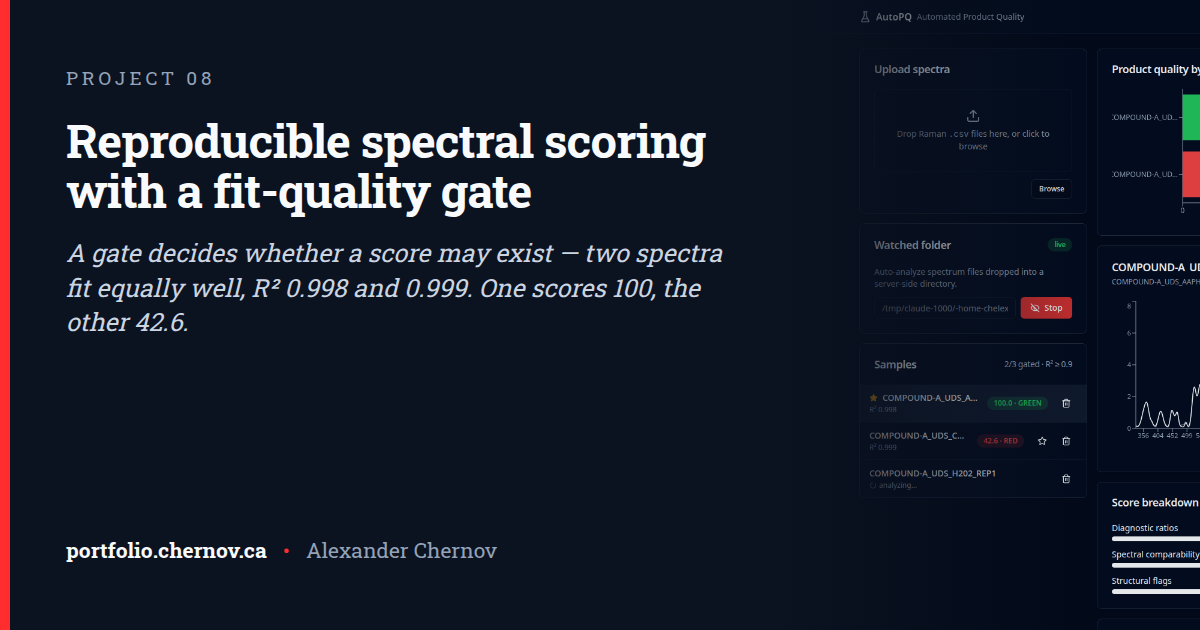
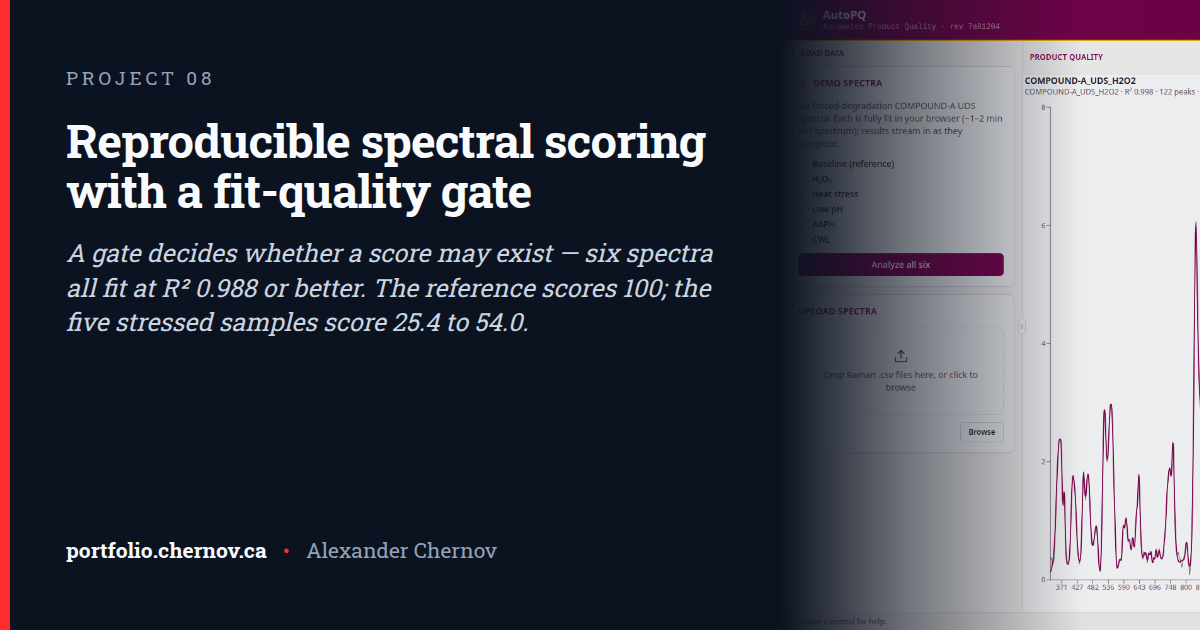
Screenshots from the running web builds: pooling, spectral scoring, gateway
The AutoPQ lede and caption now match the six-sample run shown.

diff --git a/docs/index.html b/docs/index.html
@@ -282,8 +282,8 @@ footer.bottom p{margin:0 0 .5rem}
 </div>
 <p class="lede">Lab assets as a queryable graph — 181 instruments, one entity graph, 10 MCP tools.</p>
 <p class="summary">Rust and React, shipped both as a Tauri desktop app and as a WebAssembly build, over a corpus of 4,115 assets. The interesting claim is architectural: nothing was redesigned to get here &mdash; an existing document pipeline was aimed at equipment instead.</p>
-<figure><img src="img/project-semantic-graph-mcp-gateway.png" alt="The entity graph over a synthetic asset corpus of 181 invented instruments, tagged SYN-nnnn." loading="lazy" decoding="async">
-<figcaption>The entity graph over a synthetic asset corpus of 181 invented instruments, tagged SYN-nnnn.</figcaption>
+<figure><img src="img/project-semantic-graph-mcp-gateway.png" alt="The entity graph over a pseudonymised corpus of 4,115 lab-asset records — units, equipment and control computers. The labels are invented; the distributions are real." loading="lazy" decoding="async">
+<figcaption>The entity graph over a pseudonymised corpus of 4,115 lab-asset records — units, equipment and control computers. The labels are invented; the distributions are real.</figcaption>
 </figure>
 <p>A Rust and React gateway that ingests laboratory assets from an asset platform's REST API, builds a semantic entity graph and index, and serves it through search, retrieval-augmented chat, an equipment view, an interactive graph, and a full Model Context Protocol surface — 10 tools, 2 resources, 5 code-generation prompts — consumable directly by Copilot and Claude. Desktop through Tauri, web through WebAssembly. Demonstrated on a 4,115-asset corpus.</p>
 <p>Lab equipment data exists but is not reasonable over. Asking which instruments can run an assay and which are due for calibration means knowing where to look rather than knowing the question.</p>
@@ -321,10 +321,10 @@ footer.bottom p{margin:0 0 .5rem}
 </div>
 <button class="copy" type="button" data-copy="p/reproducible-spectral-scoring.html" aria-label="Copy link to Reproducible spectral scoring with a fit-quality gate" title="Copy link to Reproducible spectral scoring with a fit-quality gate"><span class="copy-icon" aria-hidden="true">#</span><span class="copy-text">Copy link</span></button>
 </div>
-<p class="lede">A gate decides whether a score may exist — two spectra fit equally well, R² 0.998 and 0.999. One scores 100, the other 42.6.</p>
+<p class="lede">A gate decides whether a score may exist — six spectra all fit at R² 0.988 or better. The reference scores 100; the five stressed samples score 25.4 to 54.0.</p>
 <p class="summary">Pinned model, pinned thresholds, pinned provenance, 41 tests, and a Pyodide build that matches the native engine. What it caught is the part worth repeating: a component-rescaling step that looked right on every chart, correlation around 0.9, while actual fit quality had gone to &minus;608 with nothing raising an error.</p>
-<figure><img src="img/project-reproducible-spectral-scoring.png" alt="Reproducible spectral scoring with a fit-quality gate." loading="lazy" decoding="async">
-<figcaption>Reproducible spectral scoring with a fit-quality gate.</figcaption>
+<figure><img src="img/project-reproducible-spectral-scoring.png" alt="Six forced-degradation Raman spectra fitted in the browser: all six pass the R² ≥ 0.9 gate, and only the reference scores green. The selected sample fits at R² 0.998 and scores 54.0. Compound code replaced with COMPOUND-A." loading="lazy" decoding="async">
+<figcaption>Six forced-degradation Raman spectra fitted in the browser: all six pass the R² ≥ 0.9 gate, and only the reference scores green. The selected sample fits at R² 0.998 and scores 54.0. Compound code replaced with COMPOUND-A.</figcaption>
 </figure>
 <p>Spectral scoring done in notebooks is not reproducible across analysts, and the reasoning behind a score is not recoverable afterwards. This is a scoring loop with model, thresholds and provenance pinned, covered by 41 tests, plus a browser-native build running the same Python engine in-page through a Pyodide worker — the port reproduces the native reference exactly.</p>
 <p>The finding is the part worth carrying anywhere. A post-fit rescaling step matched each component to the data independently, ignoring overlapping neighbours; in dense spectra the rescaled components summed to about 35 times the data. Shape correlation still read around 0.9, so every visual check passed — while R² had collapsed to −608 and every derived ratio was untrustworthy, with nothing reporting an error. The underlying fit had been correct all along.</p>
@@ -343,8 +343,8 @@ footer.bottom p{margin:0 0 .5rem}
 </div>
 <p class="lede">An algorithm proposes, an operator admits — eight chromatograms with pool suggestions, each pending Approve, Reject or Combine.</p>
 <p class="summary">Takes plate-reader output, draws per-column traces, suggests cut points from second derivatives, and puts an approve-or-edit step in front of the robot. Detection was rebuilt rather than tuned: one sample recovered from 0.26 to 0.98, and an aggregation index that had spanned 1.3&ndash;2.7 settled to 0.09&ndash;0.53.</p>
-<figure><img src="img/project-chromatography-fraction-pooling.png" alt="Eight Robocolumn chromatograms with the algorithm&#x27;s pool proposals below, each awaiting Approve, Reject, Combine or Edit. Synthetic run." loading="lazy" decoding="async">
-<figcaption>Eight Robocolumn chromatograms with the algorithm's pool proposals below, each awaiting Approve, Reject, Combine or Edit. Synthetic run.</figcaption>
+<figure><img src="img/project-chromatography-fraction-pooling.png" alt="Eight Robocolumn chromatograms across two plates, with the algorithm&#x27;s 16 pool proposals beside them, each awaiting Approve, Reject, Combine or Edit. Synthetic run." loading="lazy" decoding="async">
+<figcaption>Eight Robocolumn chromatograms across two plates, with the algorithm's 16 pool proposals beside them, each awaiting Approve, Reject, Combine or Edit. Synthetic run.</figcaption>
 </figure>
 <p>Reads plate-reader output, generates per-column chromatograms, proposes pools with a second-derivative detection algorithm, and lets an operator approve, reject, combine or edit before exporting a bundle that drives the next robotic run.</p>
 <p>Generic peak detection found bands opportunistically, and when a diagnostic band was missed the ratio depending on it came back absent — reported as missing data rather than as a detection failure. The rebuild bridges noisy interior dips so one peak does not split into two, derives cut points from shoulder valleys and inflections, and harmonizes bands across samples so ratios are computed over canonical windows rather than per-sample ones. A previously failing sample went from R² 0.26 to 0.98; an implausible aggregation-index range of 1.3–2.7 fell to 0.09–0.53.</p>

diff --git a/docs/p/reproducible-spectral-scoring.html b/docs/p/reproducible-spectral-scoring.html
@@ -184,10 +184,10 @@ footer.bottom p{margin:0 0 .5rem}
 </div>
 <button class="copy" type="button" data-copy="../p/reproducible-spectral-scoring.html" aria-label="Copy link to Reproducible spectral scoring with a fit-quality gate" title="Copy link to Reproducible spectral scoring with a fit-quality gate"><span class="copy-icon" aria-hidden="true">#</span><span class="copy-text">Copy link</span></button>
 </div>
-<p class="lede">A gate decides whether a score may exist — two spectra fit equally well, R² 0.998 and 0.999. One scores 100, the other 42.6.</p>
+<p class="lede">A gate decides whether a score may exist — six spectra all fit at R² 0.988 or better. The reference scores 100; the five stressed samples score 25.4 to 54.0.</p>
 <p class="summary">Pinned model, pinned thresholds, pinned provenance, 41 tests, and a Pyodide build that matches the native engine. What it caught is the part worth repeating: a component-rescaling step that looked right on every chart, correlation around 0.9, while actual fit quality had gone to &minus;608 with nothing raising an error.</p>
-<figure><img src="../img/project-reproducible-spectral-scoring.png" alt="Reproducible spectral scoring with a fit-quality gate." loading="lazy" decoding="async">
-<figcaption>Reproducible spectral scoring with a fit-quality gate.</figcaption>
+<figure><img src="../img/project-reproducible-spectral-scoring.png" alt="Six forced-degradation Raman spectra fitted in the browser: all six pass the R² ≥ 0.9 gate, and only the reference scores green. The selected sample fits at R² 0.998 and scores 54.0. Compound code replaced with COMPOUND-A." loading="lazy" decoding="async">
+<figcaption>Six forced-degradation Raman spectra fitted in the browser: all six pass the R² ≥ 0.9 gate, and only the reference scores green. The selected sample fits at R² 0.998 and scores 54.0. Compound code replaced with COMPOUND-A.</figcaption>
 </figure>
 <p>Spectral scoring done in notebooks is not reproducible across analysts, and the reasoning behind a score is not recoverable afterwards. This is a scoring loop with model, thresholds and provenance pinned, covered by 41 tests, plus a browser-native build running the same Python engine in-page through a Pyodide worker — the port reproduces the native reference exactly.</p>
 <p>The finding is the part worth carrying anywhere. A post-fit rescaling step matched each component to the data independently, ignoring overlapping neighbours; in dense spectra the rescaled components summed to about 35 times the data. Shape correlation still read around 0.9, so every visual check passed — while R² had collapsed to −608 and every derived ratio was untrustworthy, with nothing reporting an error. The underlying fit had been correct all along.</p>

diff --git a/docs/p/chromatography-fraction-pooling.html b/docs/p/chromatography-fraction-pooling.html
@@ -186,8 +186,8 @@ footer.bottom p{margin:0 0 .5rem}
 </div>
 <p class="lede">An algorithm proposes, an operator admits — eight chromatograms with pool suggestions, each pending Approve, Reject or Combine.</p>
 <p class="summary">Takes plate-reader output, draws per-column traces, suggests cut points from second derivatives, and puts an approve-or-edit step in front of the robot. Detection was rebuilt rather than tuned: one sample recovered from 0.26 to 0.98, and an aggregation index that had spanned 1.3&ndash;2.7 settled to 0.09&ndash;0.53.</p>
-<figure><img src="../img/project-chromatography-fraction-pooling.png" alt="Eight Robocolumn chromatograms with the algorithm&#x27;s pool proposals below, each awaiting Approve, Reject, Combine or Edit. Synthetic run." loading="lazy" decoding="async">
-<figcaption>Eight Robocolumn chromatograms with the algorithm's pool proposals below, each awaiting Approve, Reject, Combine or Edit. Synthetic run.</figcaption>
+<figure><img src="../img/project-chromatography-fraction-pooling.png" alt="Eight Robocolumn chromatograms across two plates, with the algorithm&#x27;s 16 pool proposals beside them, each awaiting Approve, Reject, Combine or Edit. Synthetic run." loading="lazy" decoding="async">
+<figcaption>Eight Robocolumn chromatograms across two plates, with the algorithm's 16 pool proposals beside them, each awaiting Approve, Reject, Combine or Edit. Synthetic run.</figcaption>
 </figure>
 <p>Reads plate-reader output, generates per-column chromatograms, proposes pools with a second-derivative detection algorithm, and lets an operator approve, reject, combine or edit before exporting a bundle that drives the next robotic run.</p>
 <p>Generic peak detection found bands opportunistically, and when a diagnostic band was missed the ratio depending on it came back absent — reported as missing data rather than as a detection failure. The rebuild bridges noisy interior dips so one peak does not split into two, derives cut points from shoulder valleys and inflections, and harmonizes bands across samples so ratios are computed over canonical windows rather than per-sample ones. A previously failing sample went from R² 0.26 to 0.98; an implausible aggregation-index range of 1.3–2.7 fell to 0.09–0.53.</p>

diff --git a/docs/p/semantic-graph-mcp-gateway.html b/docs/p/semantic-graph-mcp-gateway.html
@@ -186,8 +186,8 @@ footer.bottom p{margin:0 0 .5rem}
 </div>
 <p class="lede">Lab assets as a queryable graph — 181 instruments, one entity graph, 10 MCP tools.</p>
 <p class="summary">Rust and React, shipped both as a Tauri desktop app and as a WebAssembly build, over a corpus of 4,115 assets. The interesting claim is architectural: nothing was redesigned to get here &mdash; an existing document pipeline was aimed at equipment instead.</p>
-<figure><img src="../img/project-semantic-graph-mcp-gateway.png" alt="The entity graph over a synthetic asset corpus of 181 invented instruments, tagged SYN-nnnn." loading="lazy" decoding="async">
-<figcaption>The entity graph over a synthetic asset corpus of 181 invented instruments, tagged SYN-nnnn.</figcaption>
+<figure><img src="../img/project-semantic-graph-mcp-gateway.png" alt="The entity graph over a pseudonymised corpus of 4,115 lab-asset records — units, equipment and control computers. The labels are invented; the distributions are real." loading="lazy" decoding="async">
+<figcaption>The entity graph over a pseudonymised corpus of 4,115 lab-asset records — units, equipment and control computers. The labels are invented; the distributions are real.</figcaption>
 </figure>
 <p>A Rust and React gateway that ingests laboratory assets from an asset platform's REST API, builds a semantic entity graph and index, and serves it through search, retrieval-augmented chat, an equipment view, an interactive graph, and a full Model Context Protocol surface — 10 tools, 2 resources, 5 code-generation prompts — consumable directly by Copilot and Claude. Desktop through Tauri, web through WebAssembly. Demonstrated on a 4,115-asset corpus.</p>
 <p>Lab equipment data exists but is not reasonable over. Asking which instruments can run an assay and which are due for calibration means knowing where to look rather than knowing the question.</p>
